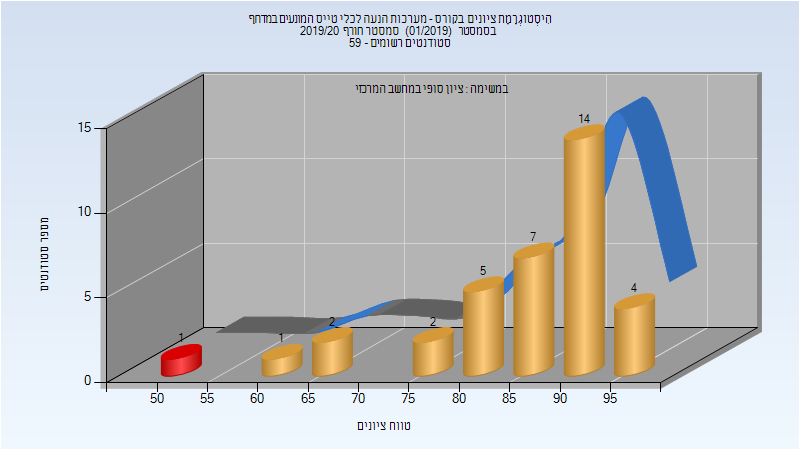
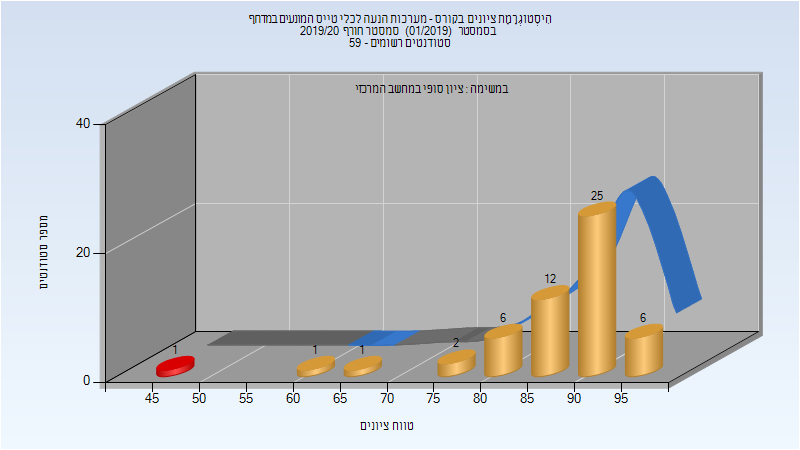
Deploy michael-maltsev/technion-histograms to github.com/michael-maltsev/technion-histograms.git:gh-pages

diff --git a/086401/index.html b/086401/index.html
@@ -233,6 +233,32 @@
 </tr>
 </tbody>
 </table>
+<h3>סופי מועד ב'</h3>
+<p><img src="201901/Final_B.png" alt="201901 Final_B" /></p>
+<table>
+<thead>
+<tr>
+<th>סטודנטים</th>
+<th>עברו/נכשלו</th>
+<th>אחוז עוברים</th>
+<th>ציון מינימלי</th>
+<th>ציון מקסימלי</th>
+<th>ממוצע</th>
+<th>חציון</th>
+</tr>
+</thead>
+<tbody>
+<tr>
+<td>21</td>
+<td>20/1</td>
+<td>95</td>
+<td>45</td>
+<td>95</td>
+<td>86.619</td>
+<td>90</td>
+</tr>
+</tbody>
+</table>
 <h3>סופי</h3>
 <p><img src="201901/Finals.png" alt="201901 Finals" /></p>
 <table>
@@ -249,13 +275,13 @@
 </thead>
 <tbody>
 <tr>
-<td>36</td>
-<td>35/1</td>
-<td>97</td>
-<td>52</td>
+<td>54</td>
+<td>53/1</td>
+<td>98</td>
+<td>45</td>
 <td>96</td>
-<td>85.889</td>
-<td>89.5</td>
+<td>87.5</td>
+<td>90</td>
 </tr>
 </tbody>
 </table>

diff --git a/134143/index.html b/134143/index.html
@@ -279,5 +279,31 @@
 </tr>
 </tbody>
 </table>
+<h3>סופי</h3>
+<p><img src="201902/Finals.png" alt="201902 Finals" /></p>
+<table>
+<thead>
+<tr>
+<th>סטודנטים</th>
+<th>עברו/נכשלו</th>
+<th>אחוז עוברים</th>
+<th>ציון מינימלי</th>
+<th>ציון מקסימלי</th>
+<th>ממוצע</th>
+<th>חציון</th>
+</tr>
+</thead>
+<tbody>
+<tr>
+<td>38</td>
+<td>38/0</td>
+<td>100</td>
+<td>66</td>
+<td>96</td>
+<td>85.632</td>
+<td>86.5</td>
+</tr>
+</tbody>
+</table>
   </body>
 </html>

diff --git a/134117/index.html b/134117/index.html
@@ -657,7 +657,7 @@
 <td>92</td>
 <td>40</td>
 <td>99</td>
-<td>75.769</td>
+<td>75.846</td>
 <td>78</td>
 </tr>
 </tbody>

diff --git a/086401/README.md b/086401/README.md
@@ -68,11 +68,19 @@
 | ---- | ---- | ---- | ---- | ---- | ---- | ---- |
 | 23 | 22/1 | 96 | 45 | 95 | 86.217 | 90 |
 
+### סופי מועד ב'
+
+![201901 Final_B](201901/Final_B.png)
+
+| סטודנטים | עברו/נכשלו | אחוז עוברים | ציון מינימלי | ציון מקסימלי | ממוצע | חציון |
+| ---- | ---- | ---- | ---- | ---- | ---- | ---- |
+| 21 | 20/1 | 95 | 45 | 95 | 86.619 | 90 |
+
 ### סופי
 
 ![201901 Finals](201901/Finals.png)
 
 | סטודנטים | עברו/נכשלו | אחוז עוברים | ציון מינימלי | ציון מקסימלי | ממוצע | חציון |
 | ---- | ---- | ---- | ---- | ---- | ---- | ---- |
-| 36 | 35/1 | 97 | 52 | 96 | 85.889 | 89.5 |
+| 54 | 53/1 | 98 | 45 | 96 | 87.5 | 90 |
 

diff --git a/134143/README.md b/134143/README.md
@@ -84,3 +84,11 @@
 | ---- | ---- | ---- | ---- | ---- | ---- | ---- |
 | 38 | 38/0 | 100 | 66 | 96 | 85.632 | 86.5 |
 
+### סופי
+
+![201902 Finals](201902/Finals.png)
+
+| סטודנטים | עברו/נכשלו | אחוז עוברים | ציון מינימלי | ציון מקסימלי | ממוצע | חציון |
+| ---- | ---- | ---- | ---- | ---- | ---- | ---- |
+| 38 | 38/0 | 100 | 66 | 96 | 85.632 | 86.5 |
+

diff --git a/134117/README.md b/134117/README.md
@@ -202,5 +202,5 @@
 
 | סטודנטים | עברו/נכשלו | אחוז עוברים | ציון מינימלי | ציון מקסימלי | ממוצע | חציון |
 | ---- | ---- | ---- | ---- | ---- | ---- | ---- |
-| 39 | 36/3 | 92 | 40 | 99 | 75.769 | 78 |
+| 39 | 36/3 | 92 | 40 | 99 | 75.846 | 78 |
 
